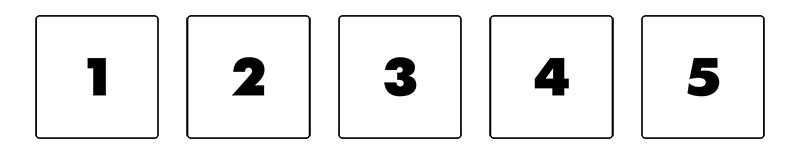
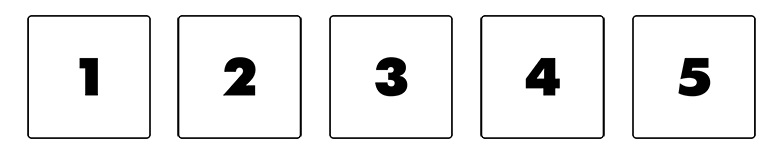
Added level select state

diff --git a/core/src/kilburnsadventure/LevelSelectState.java b/core/src/kilburnsadventure/LevelSelectState.java
@@ -1,0 +1,52 @@
+package kilburnsadventure;
+
+import com.badlogic.gdx.Gdx;
+import com.badlogic.gdx.graphics.Texture;
+import com.badlogic.gdx.graphics.g2d.SpriteBatch;
+import com.badlogic.gdx.math.Rectangle;
+
+public class LevelSelectState extends GameState 
+{
+	private Texture levels;
+	
+	private Rectangle[] buttons;
+
+	public LevelSelectState(Game game, StateManager manager)
+	{
+		super(game, manager);
+		levels = new Texture("graphics/selectLevel.jpg");
+		
+		buttons = new Rectangle[5];
+		
+		for (int index = 0; index < 5; index++)
+		{
+			buttons[index] = new Rectangle(26 + 150 * index, 14, 126, 126);
+		}
+	}
+	
+	@Override 
+	public void update()
+	{
+		if (Gdx.input.isTouched())
+		{
+			int x = Gdx.input.getX();
+			int y = Gdx.input.getY();
+			
+			for (int levelIndex = 0; levelIndex < buttons.length; levelIndex++)
+			{
+				if (buttons[levelIndex].contains(x, y))
+				{
+					stateManager.removeState(this);
+					stateManager.addState(new MapState(gameRef, stateManager, levelIndex));
+				}
+			}
+					
+		}
+	}
+	
+	@Override
+	public void draw(SpriteBatch spriteBatch)
+	{
+		spriteBatch.draw(levels, 0, 0);
+	}
+}

diff --git a/core/src/kilburnsadventure/Bullet.java b/core/src/kilburnsadventure/Bullet.java
@@ -1,0 +1,36 @@
+package kilburnsadventure;
+
+import com.badlogic.gdx.graphics.Texture;
+import com.badlogic.gdx.graphics.g2d.SpriteBatch;
+import com.badlogic.gdx.math.Vector2;
+
+
+public class Bullet extends GameObject 
+{
+	public final int LEFT = -1, RIGHT = 1;
+	
+	protected Vector2 position;
+	protected float speed = 3f;
+	protected int direction;
+	protected Texture graphic;
+	
+	public Bullet(Game game, int reqDirection)
+	{
+		super(game);
+		direction = reqDirection;
+		graphic = new Texture("graphics/weapons/bullets/bullet.png");
+	}
+	
+	@Override
+	public void update()
+	{
+		position.x += (speed * direction);
+	}
+	
+	@Override
+	public void draw(SpriteBatch spriteBatch)
+	{
+		spriteBatch.draw(graphic, position.x, position.y);
+	}
+
+}

diff --git a/core/src/kilburnsadventure/TitleState.java b/core/src/kilburnsadventure/TitleState.java
@@ -36,11 +36,8 @@ public class TitleState extends GameState
 		else if (Gdx.input.isKeyPressed(Input.Keys.ENTER))
 		{
 			stateManager.removeState(this);
-			stateManager.addState(new MapState(gameRef, stateManager, 1));
+			stateManager.addState(new LevelSelectState(gameRef, stateManager));
 		}
-		
-		balloonPos.y += balloonDirection;
-		if (balloonPos.y < 125 || balloonPos.y > 175)
-			balloonDirection *= -1;
+
 	}
 }

diff --git a/core/src/kilburnsadventure/Game.java b/core/src/kilburnsadventure/Game.java
@@ -39,6 +39,9 @@ public class Game extends ApplicationAdapter {
 	
 	public void draw()
 	{
+		Gdx.graphics.getGL20().glClearColor( 0, 0, 1, 1 );
+		Gdx.graphics.getGL20().glClear( GL20.GL_COLOR_BUFFER_BIT | GL20.GL_DEPTH_BUFFER_BIT );
+		  
 		spriteBatch.setProjectionMatrix(camera.combined);
 		
 		spriteBatch.begin();		

diff --git a/core/src/kilburnsadventure/StateManager.java b/core/src/kilburnsadventure/StateManager.java
@@ -32,6 +32,9 @@ public class StateManager extends GameObject
 		
 		for (GameState state : toRemove)
 			gameStates.remove(state);
+		
+		toAdd.clear();
+		toRemove.clear();
 	}
 	
 	@Override
